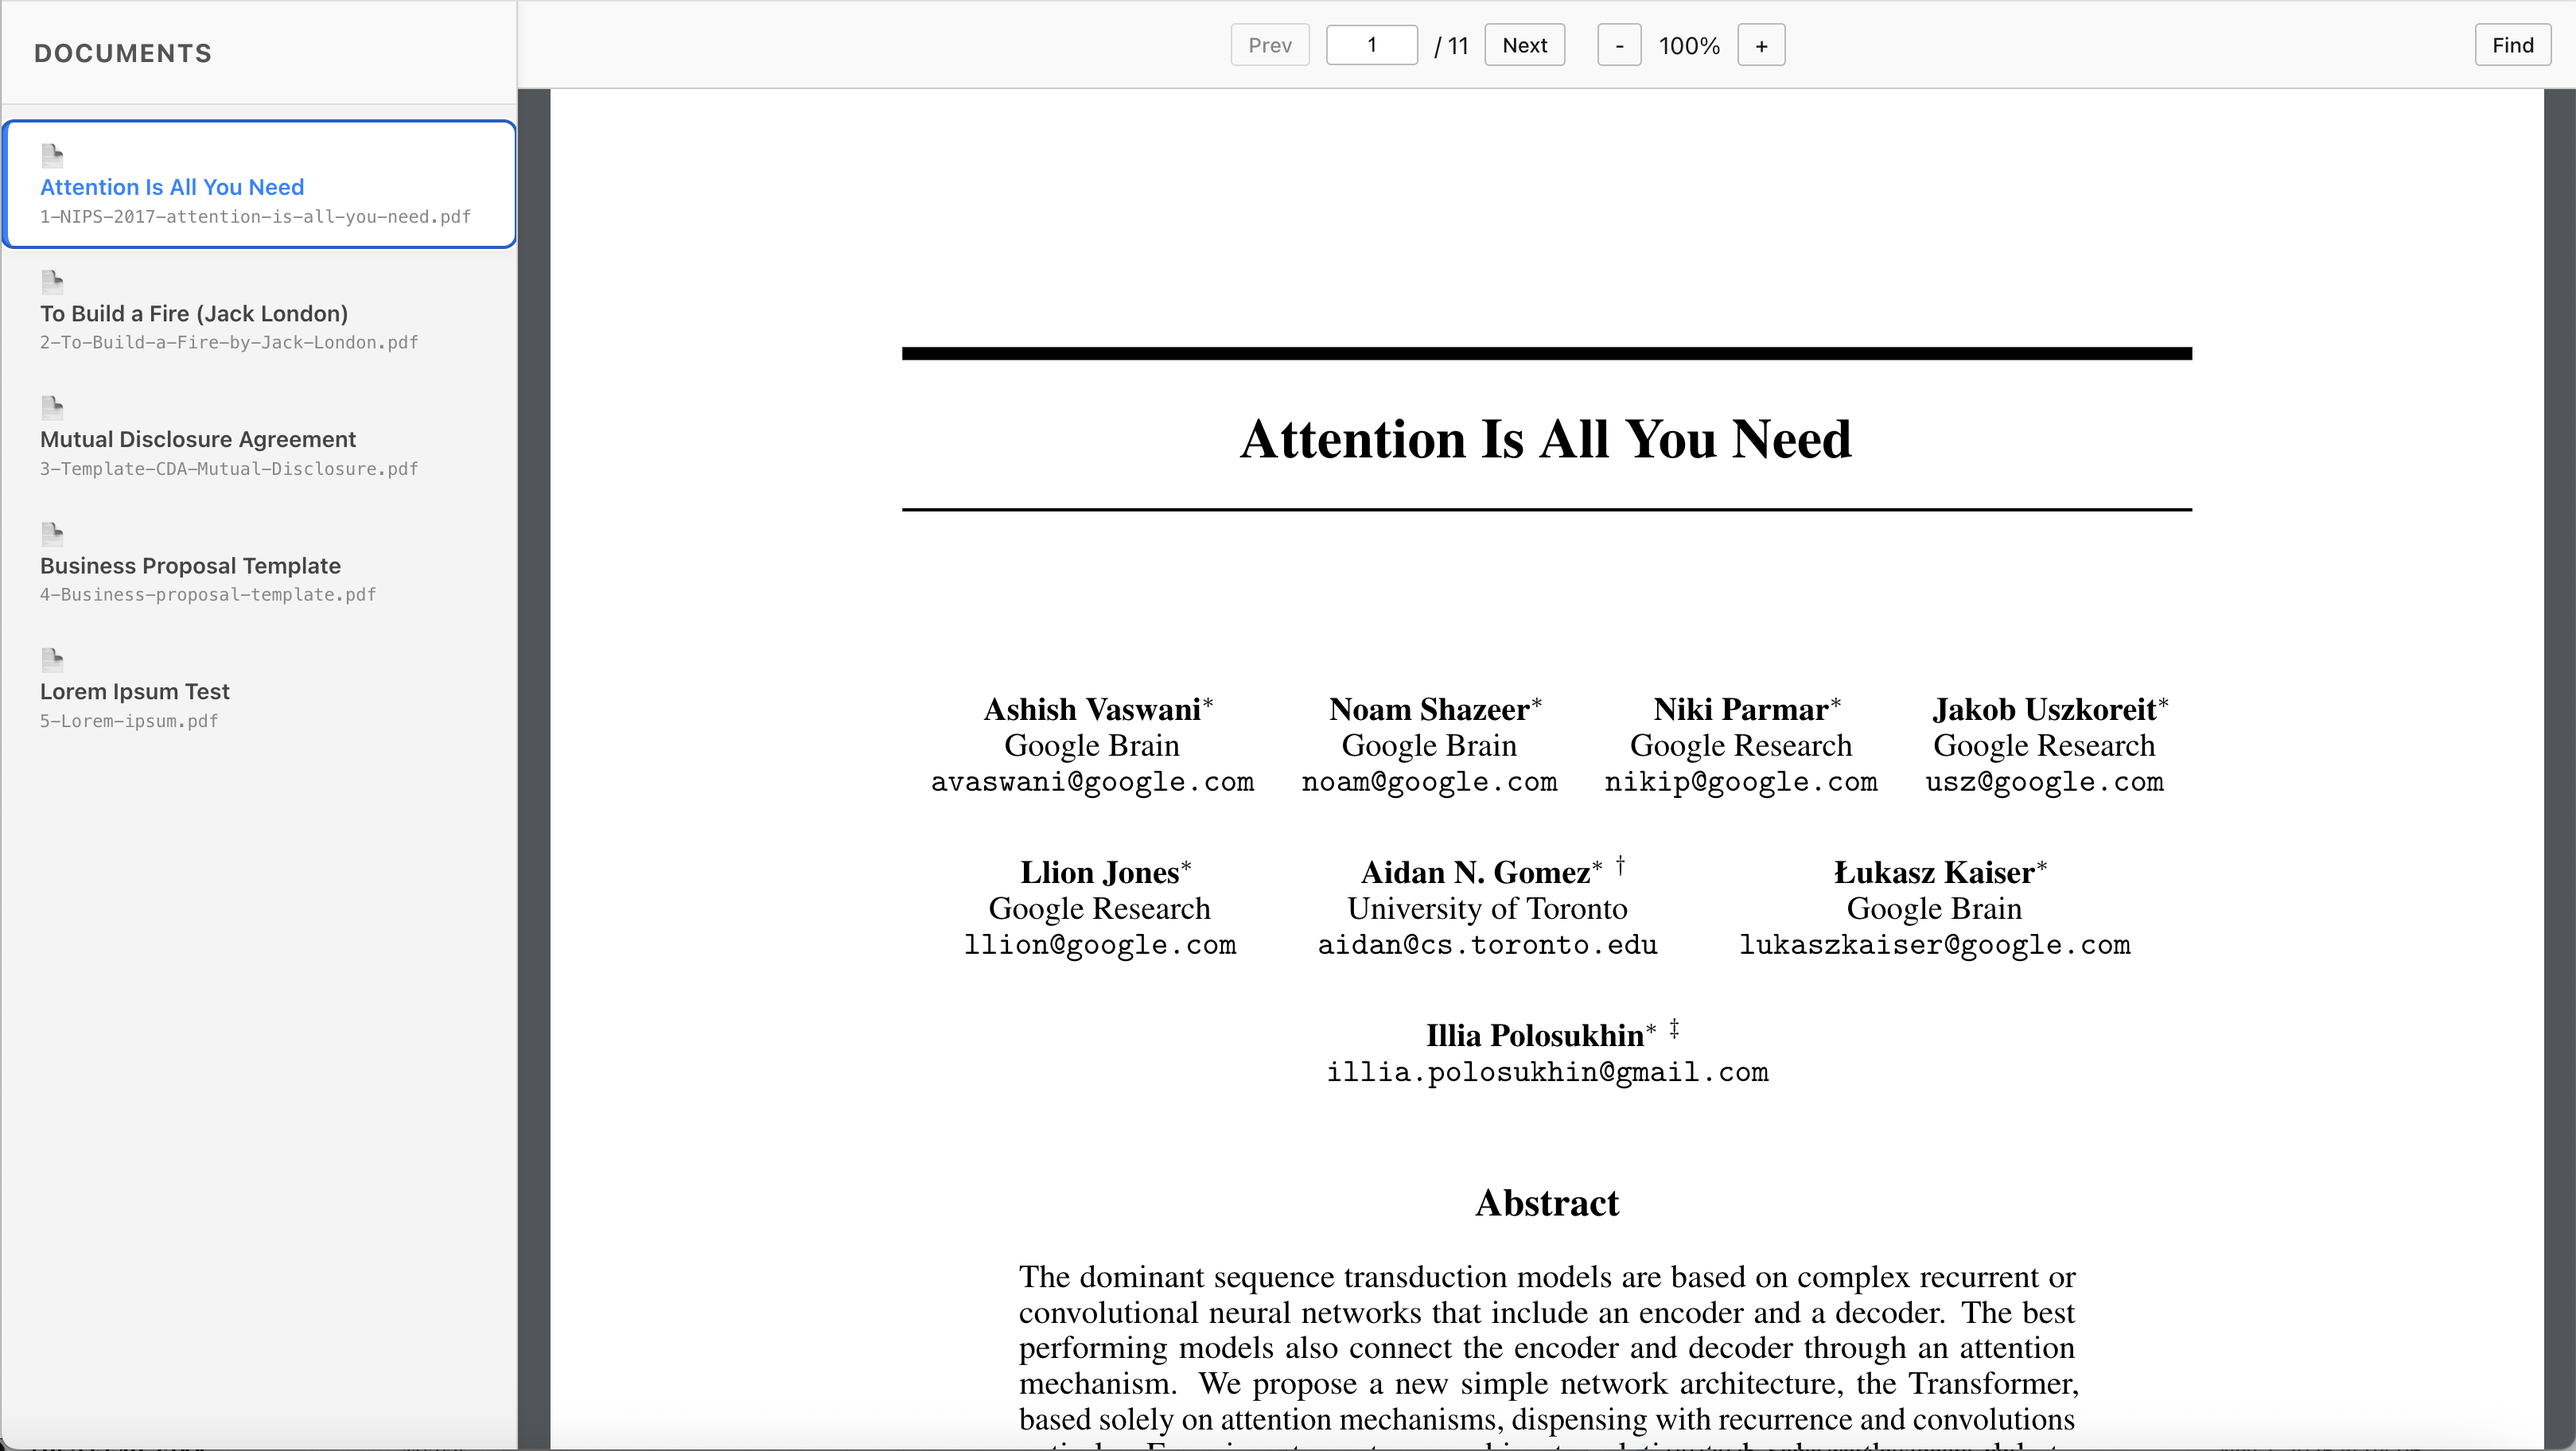
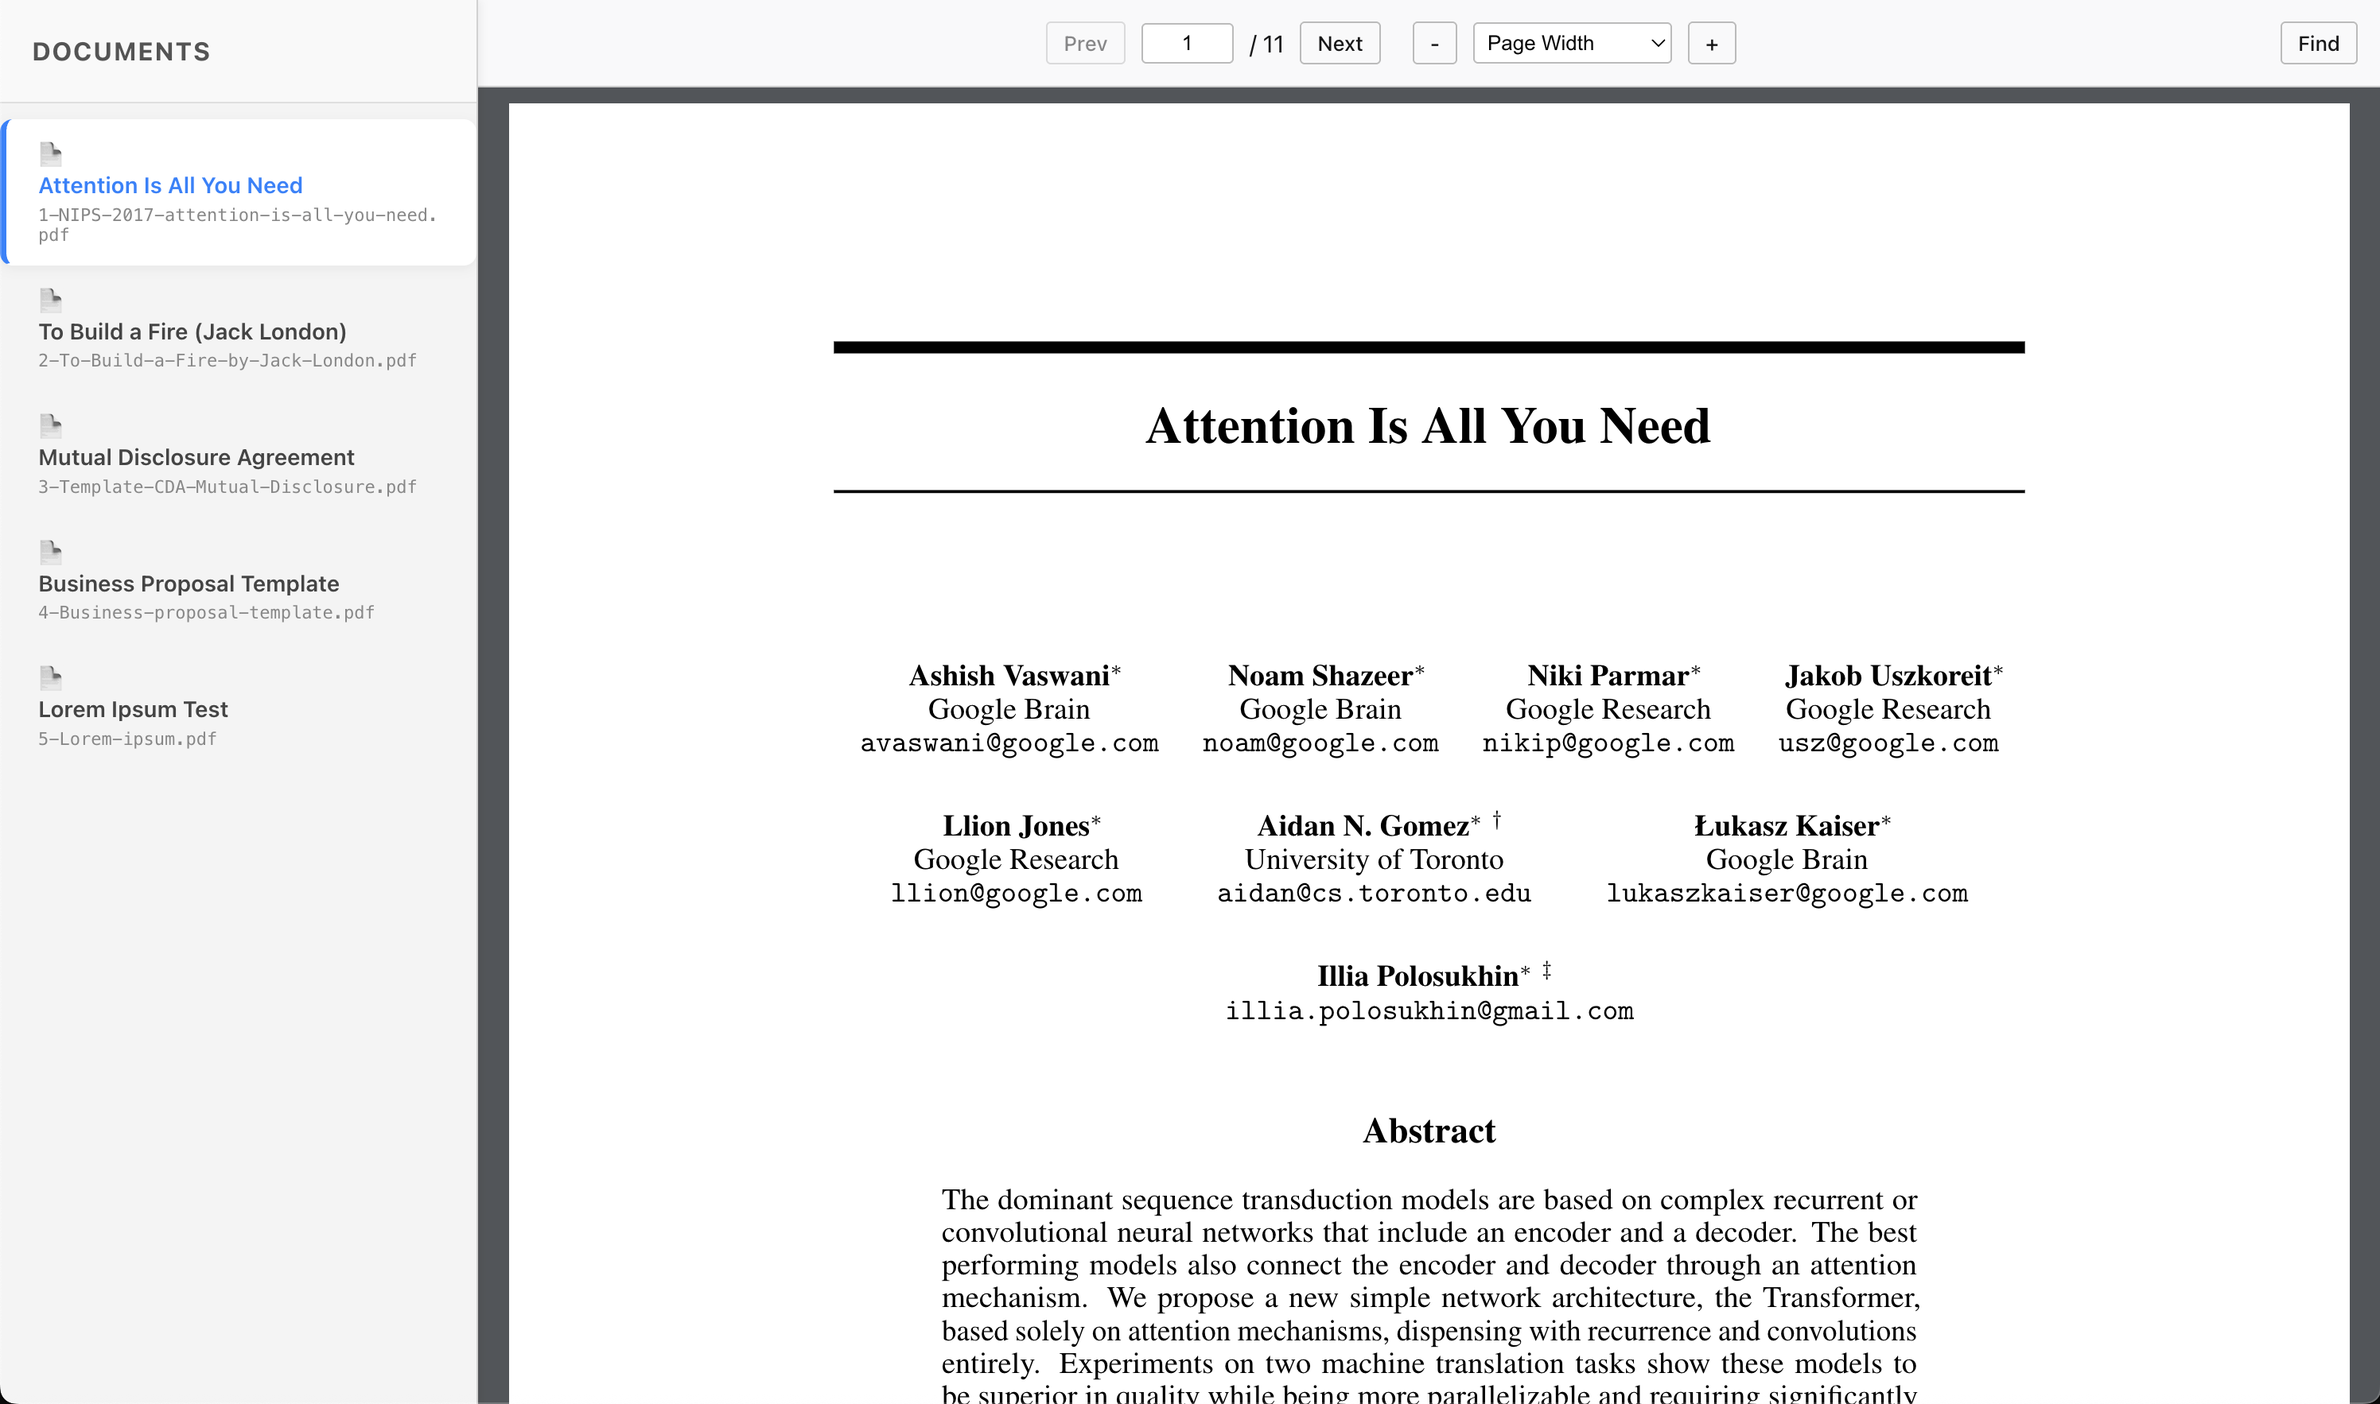
Implement proper set of zoom functionalities

diff --git a/packages/custom-react-pdf-viewer/src/pdf/PdfToolbar.tsx b/packages/custom-react-pdf-viewer/src/pdf/PdfToolbar.tsx
@@ -5,6 +5,22 @@ import type { ToolbarProps } from './ToolbarInterface';
 // 1. Import the RENAMED CSS module
 import styles from '../css/PdfToolbar.module.css';
 
+const ZOOM_OPTIONS = [
+  { value: 'auto', label: 'Automatic Zoom' },
+  { value: 'page-actual', label: 'Actual Size' },
+  { value: 'page-fit', label: 'Page Fit' },
+  { value: 'page-width', label: 'Page Width' },
+  { value: 'custom', label: '---', disabled: true }, // Divider
+  { value: 50, label: '50%' },
+  { value: 75, label: '75%' },
+  { value: 100, label: '100%' },
+  { value: 125, label: '125%' },
+  { value: 150, label: '150%' },
+  { value: 200, label: '200%' },
+  { value: 300, label: '300%' },
+  { value: 400, label: '400%' },
+];
+
 export const PdfToolbar: FunctionComponent<ToolbarProps> = ({
   showFileName,
   fileName,
@@ -15,13 +31,12 @@ export const PdfToolbar: FunctionComponent<ToolbarProps> = ({
   const [currentPageNumber, setCurrentPageNumber] = useState(1);
   const [canGoToPreviousPage, setCanGoToPreviousPage] = useState(true);
   const [canGoToNextPage, setCanGoToNextPage] = useState(true);
-  const [currentScale, setCurrentScale] = useState(100);
+  const [scaleValue, setScaleValue] = useState<string | number>('auto');
+  const [currentScale, setScale] = useState(100);
   const [canZoomOut, setCanZoomOut] = useState(true);
   const [canZoomIn, setCanZoomIn] = useState(true);
   const [isToolbarRendered, setIsToolbarRendered] = useState<boolean>(false);
   const zoomRef = useRef<HTMLDivElement | null>(null);
-
-  // 2. ALL find bar refs are REMOVED
 
   const [inputValue, setInputValue] = useState(`${currentPageNumber}`);
 
@@ -39,7 +54,7 @@ export const PdfToolbar: FunctionComponent<ToolbarProps> = ({
       setCurrentPageNumber,
       setCanGoToPreviousPage,
       setCanGoToNextPage,
-      setCurrentScale,
+      setScale: setScaleValue,
       setCanZoomOut,
       setCanZoomIn,
     });
@@ -47,7 +62,7 @@ export const PdfToolbar: FunctionComponent<ToolbarProps> = ({
 
   useEffect(() => {
     setCurrentPageNumber(1);
-    setCurrentScale(100);
+    setScale(100);
   }, [pdfManager, fileName]);
 
   useEffect(() => {
@@ -82,7 +97,7 @@ export const PdfToolbar: FunctionComponent<ToolbarProps> = ({
       if (zoomRef.current && pdfManager?.isPdfLoaded) {
         // only refit if user hasn’t manually set a numeric zoom
         if (pdfManager?.pdfViewer?.currentScaleValue === 'page-width') {
-          pdfManager.setCurrentScale(100);
+          pdfManager.setScale(100);
         }
         pdfManager?.resetZoom();
       }
@@ -111,17 +126,47 @@ export const PdfToolbar: FunctionComponent<ToolbarProps> = ({
     }
   };
 
-  const handleZoomIn = () => {
-    pdfManager?.handleZoomIn();
-    setCurrentScale(Math.ceil(100 * 0.25 + currentScale));
+  const onScaleChange = (e: React.ChangeEvent<HTMLSelectElement>) => {
+    const val = e.target.value;
+    // Check if value is a number-string ("100") or a preset ("page-fit")
+    const numeric = parseFloat(val);
+    if (isNaN(numeric)) {
+      // It's a string preset
+      pdfManager?.setScale(val);
+      setScaleValue(val);
+    } else {
+      // It's a percentage
+      pdfManager?.setScale(numeric);
+      setScaleValue(numeric);
+    }
   };
 
-  const handleZoomOut = () => {
-    pdfManager?.handleZoomOut();
-    setCurrentScale(Math.ceil(currentScale - 100 * 0.25));
-  };
+  // Updated zoom handlers (manager handles the math now)
+  const handleZoomIn = () => pdfManager?.handleZoomIn();
+  const handleZoomOut = () => pdfManager?.handleZoomOut();
 
   const handleToggleFindBar = () => { console.log('toggle click', pdfManager); pdfManager?.toggleFindBar(); };
+
+  // Helper: If the current scaleValue isn't in our list (e.g. 117%),
+  // we should arguably add it dynamically or just let the select show "custom".
+  // For simplicity, we just pass the value. The browser will show the value
+  // if it matches an option, or blank if it doesn't.
+  // To fix "blank", we can append the current value to the list if missing.
+
+  // Create render options, ensuring current value is visible
+  const renderOptions = [...ZOOM_OPTIONS];
+  const isPreset = ZOOM_OPTIONS.some(z => z.value == scaleValue);
+
+  if (!isPreset && typeof scaleValue === 'number') {
+    // Add a temporary option for the weird zoom level (e.g. "117%")
+    renderOptions.push({ value: scaleValue, label: `${scaleValue}%` });
+    // Sort numbers so it looks nice? Optional.
+    renderOptions.sort((a, b) => {
+       if (typeof a.value === 'string') return -1;
+       if (typeof b.value === 'string') return 1;
+       return (a.value as number) - (b.value as number);
+    });
+  }
 
   return (
     <div className={styles.toolbarContainer} ref={toolbarRefInDom}>
@@ -151,11 +196,28 @@ export const PdfToolbar: FunctionComponent<ToolbarProps> = ({
             </div>
 
             <div className={styles.toolbarZoomControl}>
-              <button onClick={handleZoomOut} disabled={!canZoomOut}>
+              <button onClick={handleZoomOut} disabled={!canZoomOut} title="Zoom Out">
                 -
               </button>
-              <span>{currentScale}%</span>
-              <button onClick={handleZoomIn} disabled={!canZoomIn}>
+
+              <select
+                className={styles.zoomSelect}
+                value={scaleValue}
+                onChange={onScaleChange}
+                aria-label="Zoom"
+              >
+                {renderOptions.map((opt, idx) => (
+                  <option
+                    key={`${opt.value}-${idx}`}
+                    value={opt.value}
+                    disabled={opt.disabled}
+                  >
+                    {opt.label}
+                  </option>
+                ))}
+              </select>
+
+              <button onClick={handleZoomIn} disabled={!canZoomIn} title="Zoom In">
                 +
               </button>
             </div>

diff --git a/packages/custom-react-pdf-viewer/src/pdf/PdfManager.ts b/packages/custom-react-pdf-viewer/src/pdf/PdfManager.ts
@@ -39,7 +39,7 @@ interface PdfData {
   setCurrentPageNumber?: Dispatch<SetStateAction<number>>;
   setCanGoToPreviousPage?: Dispatch<SetStateAction<boolean>>;
   setCanGoToNextPage?: Dispatch<SetStateAction<boolean>>;
-  setCurrentScale?: Dispatch<SetStateAction<number>>;
+  setScale?: Dispatch<SetStateAction<number | string>>;
   setCanZoomOut?: Dispatch<SetStateAction<boolean>>;
   setCanZoomIn?: Dispatch<SetStateAction<boolean>>;
 }
@@ -117,6 +117,7 @@ class PdfManager {
     this.eventBus!.on('pagesdestroy', this.onPagesDestroy);
     this.eventBus!.on('pagechanging', this.onPageChanging);
     this.eventBus!.on('textlayerrendered', this.onTextLayerRendered);
+    this.eventBus!.on('scalechanging', this.onScaleChanging);
 
     window.addEventListener('resize', this.handleResize);
   };
@@ -140,6 +141,7 @@ class PdfManager {
     this.eventBus?.off('pagerendered', this.onPageRendered);
     this.eventBus?.off('pagesloaded', this.onPagesLoaded);
     this.eventBus?.off('pagechanging', this.onPageChanging);
+    this.eventBus?.off('scalechanging', this.onScaleChanging);
   };
 
   registerHandlers = ({
@@ -147,7 +149,7 @@ class PdfManager {
     setCurrentPageNumber,
     setCanGoToPreviousPage,
     setCanGoToNextPage,
-    setCurrentScale,
+    setScale,
     setCanZoomOut,
     setCanZoomIn,
   }: {
@@ -155,7 +157,7 @@ class PdfManager {
     setCurrentPageNumber: Dispatch<SetStateAction<number>> | undefined;
     setCanGoToPreviousPage: Dispatch<SetStateAction<boolean>> | undefined;
     setCanGoToNextPage: Dispatch<SetStateAction<boolean>> | undefined;
-    setCurrentScale: Dispatch<SetStateAction<number>> | undefined;
+    setScale: Dispatch<SetStateAction<number | string>> | undefined;
     setCanZoomOut: Dispatch<SetStateAction<boolean>> | undefined;
     setCanZoomIn: Dispatch<SetStateAction<boolean>> | undefined;
   }) => {
@@ -167,7 +169,7 @@ class PdfManager {
     setCurrentPageNumber && (this.data.setCurrentPageNumber = setCurrentPageNumber);
     setCanGoToPreviousPage && (this.data.setCanGoToPreviousPage = setCanGoToPreviousPage);
     setCanGoToNextPage && (this.data.setCanGoToNextPage = setCanGoToNextPage);
-    setCurrentScale && (this.data.setCurrentScale = setCurrentScale);
+    setScale && (this.data.setScale = setScale);
     setCanZoomOut && (this.data.setCanZoomOut = setCanZoomOut);
     setCanZoomIn && (this.data.setCanZoomIn = setCanZoomIn);
 
@@ -200,7 +202,7 @@ class PdfManager {
     this.eventBus!.off('pagerendered', this.onPageRendered);
   };
 
-  onPageChanging = ({ source, pageNumber, pageLabel, previous }: { source: any; pageNumber: number; pageLabel: string; previous: any }) => {
+  onPageChanging = ({ pageNumber }: { source: any; pageNumber: number; pageLabel: string; previous: any }) => {
     this.data?.setCurrentPageNumber && this.data.setCurrentPageNumber(pageNumber);
   };
 
@@ -246,6 +248,18 @@ class PdfManager {
     }
 
     this.eventBus!.off('pagesloaded', this.onPagesLoaded);
+  };
+
+  onScaleChanging = (evt: { scale: number; presetValue: string }) => {
+    if (this.data?.setScale) {
+      // If there is a preset (like 'page-fit'), use that.
+      // Otherwise use the numeric scale (converted to percentage int).
+      if (evt.presetValue) {
+        this.data.setScale(evt.presetValue);
+      } else {
+        this.data.setScale(Math.floor(evt.scale * 100));
+      }
+    }
   };
 
   trackCharCounts = (divs: any[], firstChar: string, firstCharCount: number, lastChar: string, lastCharCount: number) => {
@@ -373,11 +387,11 @@ class PdfManager {
   };
 
   handleZoomOut = () => {
-    this.pdfViewer?.decreaseScale({ scaleFactor: 1 });
+    this.data?.pdfViewer?.decreaseScale();
   };
 
   handleZoomIn = () => {
-    this.pdfViewer?.increaseScale({ scaleFactor: 1 });
+    this.data?.pdfViewer?.increaseScale();
   };
 
   resetZoom = () => {
@@ -386,16 +400,17 @@ class PdfManager {
     }
   };
 
-  setCurrentScale(scale: number): void {
-    if (this.data?.pdfViewer) {
-      if (scale === 100) {
-        this.data.pdfViewer.currentScaleValue = 'page-width';
-      } else {
-        this.data.pdfViewer.currentScale = scale;
-        this.data.originalScale = scale;
-      }
+  setScale = (value: number | string): void => {
+    if (!this.data?.pdfViewer) return;
+
+    if (typeof value === 'string') {
+      // Handle presets: "auto", "page-fit", "page-width", "page-actual"
+      this.data.pdfViewer.currentScaleValue = value;
+    } else {
+      // Handle numeric percentage: 150 -> 1.5
+      this.data.pdfViewer.currentScale = value / 100;
     }
-  }
+  };
 }
 
 export default PdfManager;

diff --git a/packages/custom-react-pdf-viewer/src/css/PdfToolbar.module.css b/packages/custom-react-pdf-viewer/src/css/PdfToolbar.module.css
@@ -125,6 +125,24 @@
   align-items: center;
 }
 
+.zoomSelect {
+  height: 26px; /* Match button height roughly */
+  font-size: 13px;
+  border: 1px solid var(--custom-pdf-field-border-color, #bbb);
+  background-color: var(--custom-pdf-field-bg-color, white);
+  color: var(--custom-pdf-field-color, #060606);
+  border-radius: 3px;
+  padding: 0 4px;
+  margin: 0 5px;
+  outline: none;
+  cursor: pointer;
+  min-width: 100px; /* Ensure wide enough for text */
+}
+
+.zoomSelect:focus {
+  border-color: #0a84ff;
+}
+
 .toolbarZoomControl span {
   font-size: 15px;
   margin: 0 5px;
